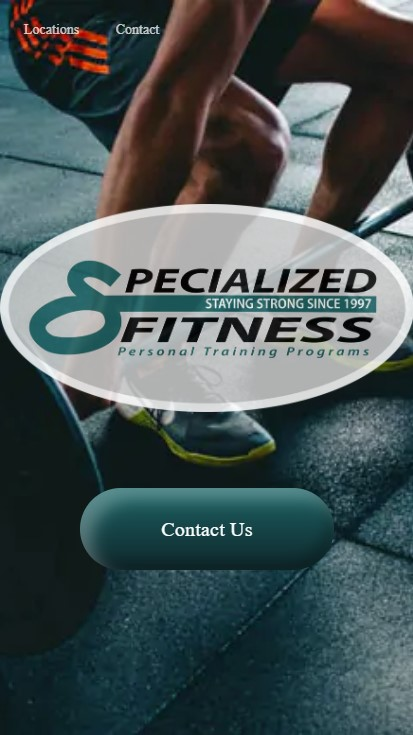
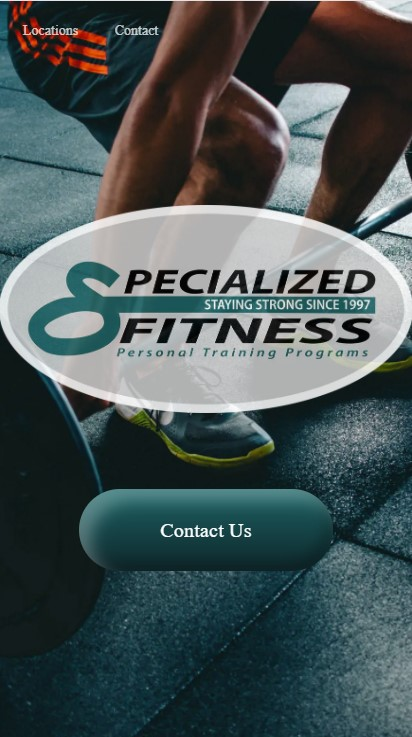
next-gen images

diff --git a/index.html b/index.html
@@ -83,9 +83,15 @@
 				<div class="hero__names__name">Smith</div>
 			</h1>
 			<picture>
-			
 				<source loading="lazy" srcset="images/OG-graeme--300.webp" type="image/webp" />
-				<img loading="lazy" src="images/OG-graeme--300.jpg" class="hero__portrait" height="50" width="50" alt="developer portrait" />
+				<img
+					loading="lazy"
+					src="images/OG-graeme--300.jpg"
+					class="hero__portrait"
+					height="50"
+					width="50"
+					alt="developer portrait"
+				/>
 			</picture>
 			<h1 class="hero__title">Web Developer</h1>
 			<div class="hero__cta button container--pall">Contact Me</div>
@@ -244,7 +250,7 @@
 					<h3 class="freelance__card-wrapper__item__title">Specialized Fitness</h3>
 					<div class="freelance__card-wrapper__item__image-wrapper">
 						<picture>
-							<source srcset="images/specfit-thumbnail.jpg" type="image/webp" />
+							<source srcset="images/specfit-thumbnail.webp" type="image/webp" />
 							<img
 								src="images/specfit-thumbnail.jpg"
 								width="200"
